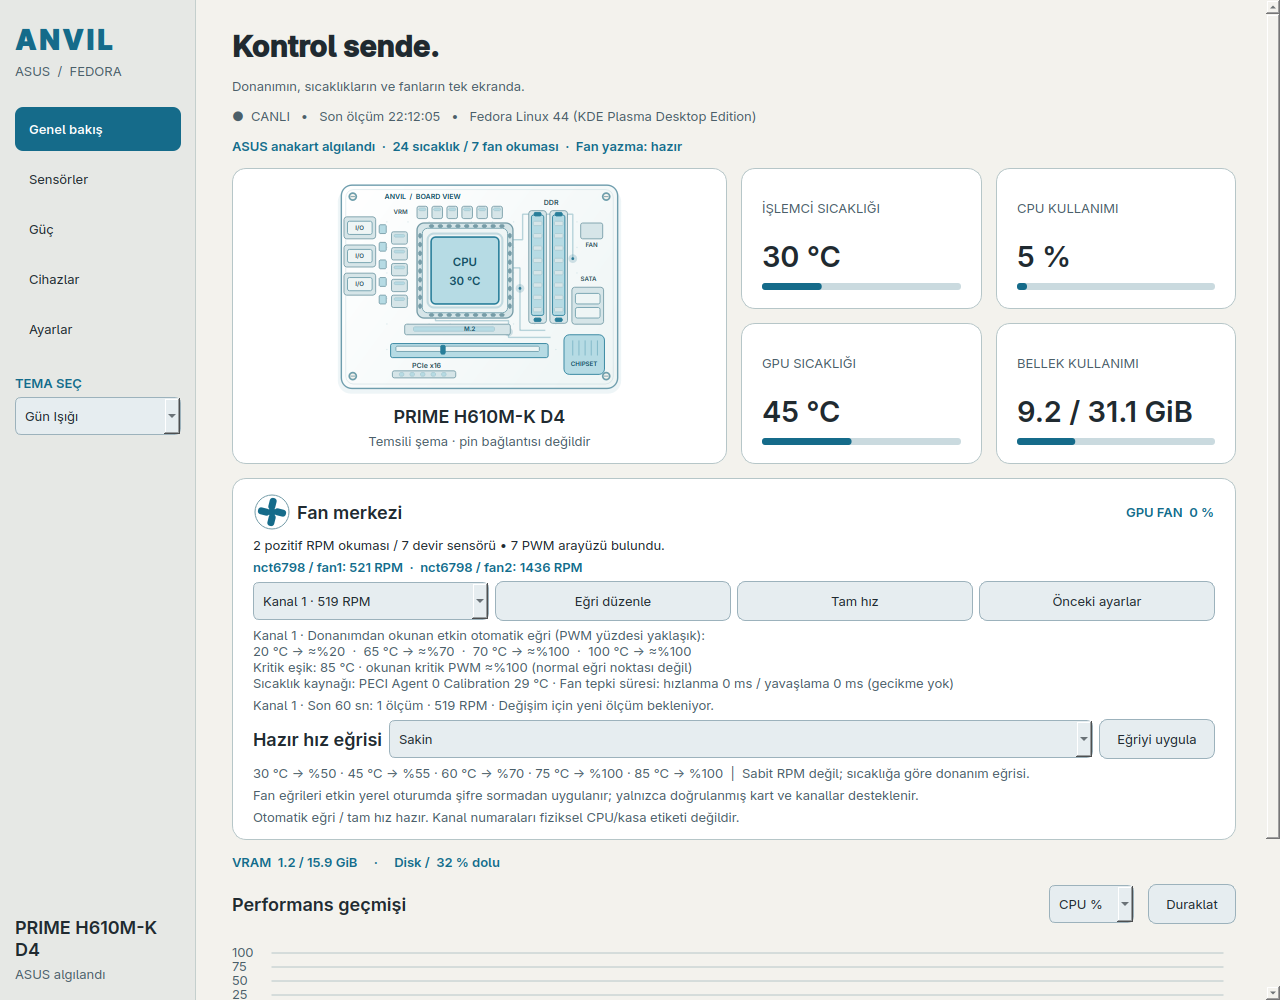
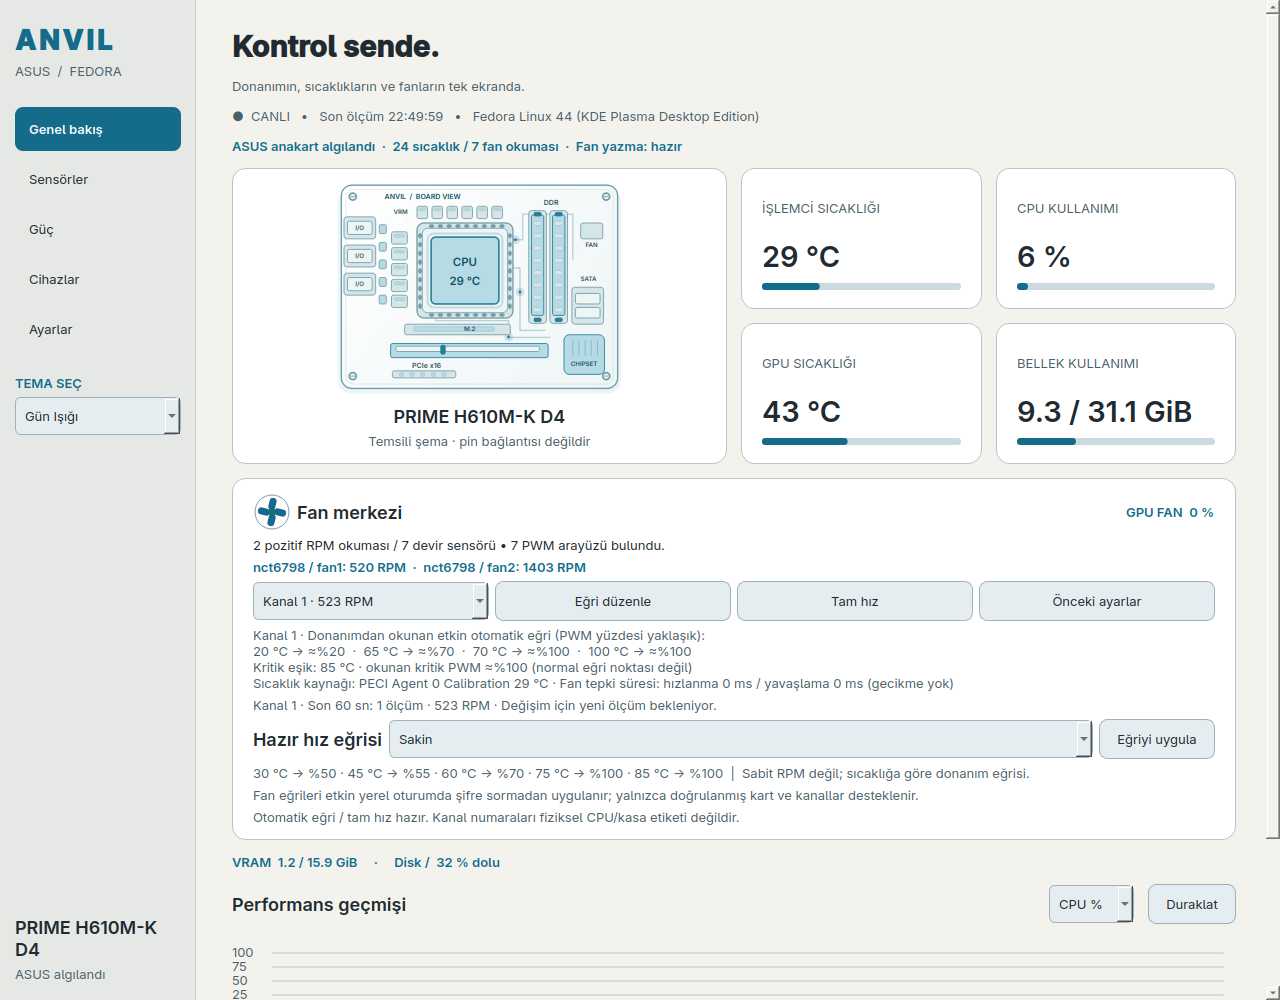
Verify requested fan curve against helper readback

diff --git a/tests/test_fan_ui.py b/tests/test_fan_ui.py
@@ -457,6 +457,36 @@ class FanUiTests(unittest.TestCase):
             finally:
                 window.quit_app()
 
+    def test_curve_feedback_compares_readback_with_points_actually_sent(self):
+        with tempfile.TemporaryDirectory() as directory:
+            settings = QSettings(str(Path(directory) / 'settings.ini'), QSettings.Format.IniFormat)
+            with patch('anvil.app.QSettings', return_value=settings), patch.object(Window, 'refresh'):
+                window = Window()
+            try:
+                window.fan_channel.clear()
+                window.fan_channel.addItem('Kanal 1', 1)
+                requested = [[30, 50], [45, 60], [60, 75], [75, 100], [85, 100]]
+                pending = {}
+                def capture(program, arguments, callback):
+                    pending.update(arguments=arguments, callback=callback)
+                with (patch('anvil.app.channels', return_value=[channel(1, 900)]),
+                      patch('anvil.app.Path.exists', return_value=True),
+                      patch.object(window, 'run_hardware', side_effect=capture),
+                      patch.object(window, 'log_event')):
+                    window.fan_action('curve', requested)
+                    self.assertEqual(json.loads(pending['arguments'][-1])[0], [30, 50])
+                    requested[0][1] = 60
+                    verified = {'pwm1_enable': 5}
+                    for index, (temp, speed) in enumerate(requested, 1):
+                        verified[f'pwm1_auto_point{index}_temp'] = temp * 1000
+                        verified[f'pwm1_auto_point{index}_pwm'] = round(speed * 255 / 100)
+                    pending['callback'](True, json.dumps({'ok': True, 'action': 'curve',
+                                                          'channel': 1, 'verified': verified}), '')
+                self.assertIn('istenen noktalarla uyuşmuyor', window.fan_feedback.text())
+                self.assertNotIn('geri okunarak doğrulandı', window.fan_feedback.text())
+            finally:
+                window.quit_app()
+
     def test_curve_editor_refuses_a_changed_channel(self):
         with tempfile.TemporaryDirectory() as directory:
             settings = QSettings(str(Path(directory) / 'settings.ini'), QSettings.Format.IniFormat)

diff --git a/anvil/fans.py b/anvil/fans.py
@@ -52,7 +52,7 @@ def _secondary_source(hw, stem):
             'temp': raw_temp/1000 if raw_temp is not None and -128000 <= raw_temp < 128000 else None}
 
 
-def fan_result(ok, output, error, action, channel):
+def fan_result(ok, output, error, action, channel, requested_points=None):
     """Report success only for a matching, read-back-verified helper response."""
     if not ok:
         return False, 'Fan işlemi başarısız: ' + (error.strip() or 'Yetkilendirme iptal edildi veya yardımcı başlatılamadı.')
@@ -72,6 +72,17 @@ def fan_result(ok, output, error, action, channel):
             or (action == 'curve' and verified[stem + '_enable'] != 5)
             or (action == 'full' and verified[stem + '_enable'] != 0)):
         return False, 'Fan ayarının geri okuması eksik veya beklenen modda değil.'
+    if action == 'curve':
+        if (not isinstance(requested_points, list) or len(requested_points) != 5
+                or any(not isinstance(point, list) or len(point) != 2
+                       or any(type(value) is not int for value in point)
+                       for point in requested_points)):
+            return False, 'İstenen fan eğrisi doğrulama için bulunamadı.'
+        for index, (temp, speed) in enumerate(requested_points, 1):
+            if (verified[f'{stem}_auto_point{index}_temp'] != temp * 1000
+                    or verified[f'{stem}_auto_point{index}_pwm'] != round(speed * 255 / 100)):
+                return False, ('Fan eğrisi geri okuması istenen noktalarla uyuşmuyor; '
+                               'donanım eğrisini yeniden inceleyin.')
     return True, 'Fan ayarı uygulandı ve donanımdan geri okunarak doğrulandı.'
 
 

diff --git a/tests/test_fan_control.py b/tests/test_fan_control.py
@@ -62,6 +62,24 @@ class FanTests(unittest.TestCase):
         self.assertFalse(fan_result(True, '{}', '', 'full', 1)[0])
         self.assertFalse(fan_result(False, '', 'permission denied', 'full', 1)[0])
 
+    def test_curve_success_requires_exact_requested_temperature_and_pwm_readback(self):
+        fields = {'pwm1_enable': 5}
+        for index, (temp, speed) in enumerate(CURVE, 1):
+            fields[f'pwm1_auto_point{index}_temp'] = temp * 1000
+            fields[f'pwm1_auto_point{index}_pwm'] = round(speed * 255 / 100)
+        response = {'ok': True, 'action': 'curve', 'channel': 1, 'verified': fields}
+        output = json.dumps(response)
+        self.assertTrue(fan_result(True, output, '', 'curve', 1, CURVE)[0])
+        self.assertFalse(fan_result(True, output, '', 'curve', 1)[0])
+        for key in ('pwm1_auto_point2_temp', 'pwm1_auto_point3_pwm'):
+            with self.subTest(key=key):
+                changed = dict(fields)
+                changed[key] += 1
+                result = fan_result(True, json.dumps(dict(response, verified=changed)),
+                                    '', 'curve', 1, CURVE)
+                self.assertFalse(result[0])
+                self.assertIn('istenen noktalarla uyuşmuyor', result[1])
+
     def test_validation(self):
         self.assertEqual(helper.validate_curve(CURVE), CURVE)
         for invalid in [[], [[30, 0]]*5, [[30, 50], [20, 60], [60, 75], [75, 100], [85, 100]],

diff --git a/anvil/app.py b/anvil/app.py
@@ -1246,15 +1246,18 @@ class Window(QMainWindow):
         if self.hardware_busy():
             return
         args = [helper, str(channel), action]
+        requested_points = None
         if points is not None:
-            args.append(json.dumps(points))
+            payload = json.dumps(points)
+            args.append(payload)
+            requested_points = json.loads(payload)
         self.fan_curve_readback_pending = True
         for control in self.fan_controls:
             control.setEnabled(False)
         self.update_current_fan_curve()
         self.fan_feedback.setText(f'Kanal {channel}: donanıma yazma ve geri okuma bekleniyor…')
         def done(ok, out, err):
-            verified, message = fan_result(ok, out, err, action, channel)
+            verified, message = fan_result(ok, out, err, action, channel, requested_points)
             if verified and preset_name:
                 message = f'{preset_name} eğrisi: {message}'
             message = f'Kanal {channel}: {message}'

diff --git a/anvil/__init__.py b/anvil/__init__.py
@@ -1,1 +1,1 @@
-__version__ = '0.13.10'
+__version__ = '0.13.11'

diff --git a/README.md b/README.md
@@ -35,7 +35,7 @@ Doğrulanmamış ASUS kartlarında hazır eğri **önizlemesi**, kartın mevcut 
 [Sürümlerden](https://github.com/Tubix777/anvil-control/releases) RPM’yi indirin:
 
 ```bash
-sudo dnf install ./anvil-control-0.13.10-1.fc44.noarch.rpm
+sudo dnf install ./anvil-control-0.13.11-1.fc44.noarch.rpm
 anvil-control
 ```
 
@@ -73,6 +73,8 @@ Fan yazma yardımcısı kurulu olmasa veya başka bir donanım işlemi sürse de
 
 Fan işlem mesajında hedef kanal numarası görünür. Özel eğri düzenleyicisi açıkken kanal seçimi değişirse uygulama yazmayı iptal eder; yeni kanal için düzenleyiciyi yeniden açın.
 
+Eğri işleminin başarı mesajı, yardımcıdan geri okunan beş sıcaklık ve PWM noktasının gönderilen değerlerle birebir eşleşmesini gerektirir. Uyuşmazlıkta başarı bildirilmez; donanım eğrisini yeniden inceleyin.
+
 Fan işlemi sürerken donanım eğrisi dosyaları sırayla değişebileceği için bu sıradaki ara okuma mevcut eğri diye gösterilmez. İşlem tamamlandıktan sonra yapılan başarılı yeni ölçümle eğri tekrar görünür; o zamana kadar fan ayarı düğmeleri kapalı kalır.
 
 Fan değişiklikleri için yalnızca `/usr/libexec/anvil-fan-helper` polkit eylemi, **etkin yerel oturumda** şifresiz izinlidir; etkin olmayan ve uzaktan oturumlara izin verilmez. Bu, yalnızca uygulamanın düğmelerini değil, aynı oturumdaki başka programların aynı yardımcıyı çağırmasını da kapsar. Yardımcı yalnızca doğrulanmış kart/kanal ve güvenli eğrileri kabul eder; bu izin genel root erişimi vermez. Ortak kullanılan bilgisayarlarda bu yetki modelini göz önünde bulundurun.
@@ -96,7 +98,7 @@ python3 -m unittest discover -s tests -v
 QT_QPA_PLATFORM=offscreen PYTHONPATH=. python3 tests/smoke_ui.py
 ```
 
-63 birim testi ve gerçek sensör telemetrisiyle beş bölümlü arayüz testi. Smoke testi yalnızca mevcut sistemde çalışır. Bu bağımsız alpha proje ASUS/Fedora tarafından onaylanmamıştır. Anakart çizimi temsili şemadır, pin bağlantısı değildir. AMD GPU desteği sysfs fikstürleriyle sınandı; gerçek AMD donanımında henüz doğrulanmadı. JSON tanılama raporunu paylaşmadan önce içeriğini inceleyin; raporda kart/BIOS, PCI ve sensör bilgileri bulunur.
+65 birim testi ve gerçek sensör telemetrisiyle beş bölümlü arayüz testi. Smoke testi yalnızca mevcut sistemde çalışır. Bu bağımsız alpha proje ASUS/Fedora tarafından onaylanmamıştır. Anakart çizimi temsili şemadır, pin bağlantısı değildir. AMD GPU desteği sysfs fikstürleriyle sınandı; gerçek AMD donanımında henüz doğrulanmadı. JSON tanılama raporunu paylaşmadan önce içeriğini inceleyin; raporda kart/BIOS, PCI ve sensör bilgileri bulunur.
 
 ## English
 

diff --git a/CHANGELOG.md b/CHANGELOG.md
@@ -1,5 +1,11 @@
 # Değişiklikler
 
+## 0.13.11 — 2026-09-24
+
+- Fan eğrisi işleminin başarı mesajı artık dönen her sıcaklık ve PWM noktasını gönderilen eğriyle birebir karşılaştırıyor. Mod doğru olsa bile noktalardan biri farklıysa doğrulanmış başarı iddia edilmiyor.
+- Asenkron sonuçta karşılaştırılan eğri, işlem başında gerçekten gönderilen JSON’un kopyasıdır; sonradan değişebilen arayüz verisi sonucu etkilemez.
+- Ayrıcalıklı yardımcı, donanım yazma davranışı, güç profili ve yetki modeli değişmedi.
+
 ## 0.13.10 — 2026-09-24
 
 - Fan işlemi sürerken veya tamamlanıp yeni okuma beklenirken mevcut eğri noktaları gösterilmiyor; işlem ortasındaki karma eski/yeni noktalar etkin donanım eğrisi gibi sunulmuyor.
